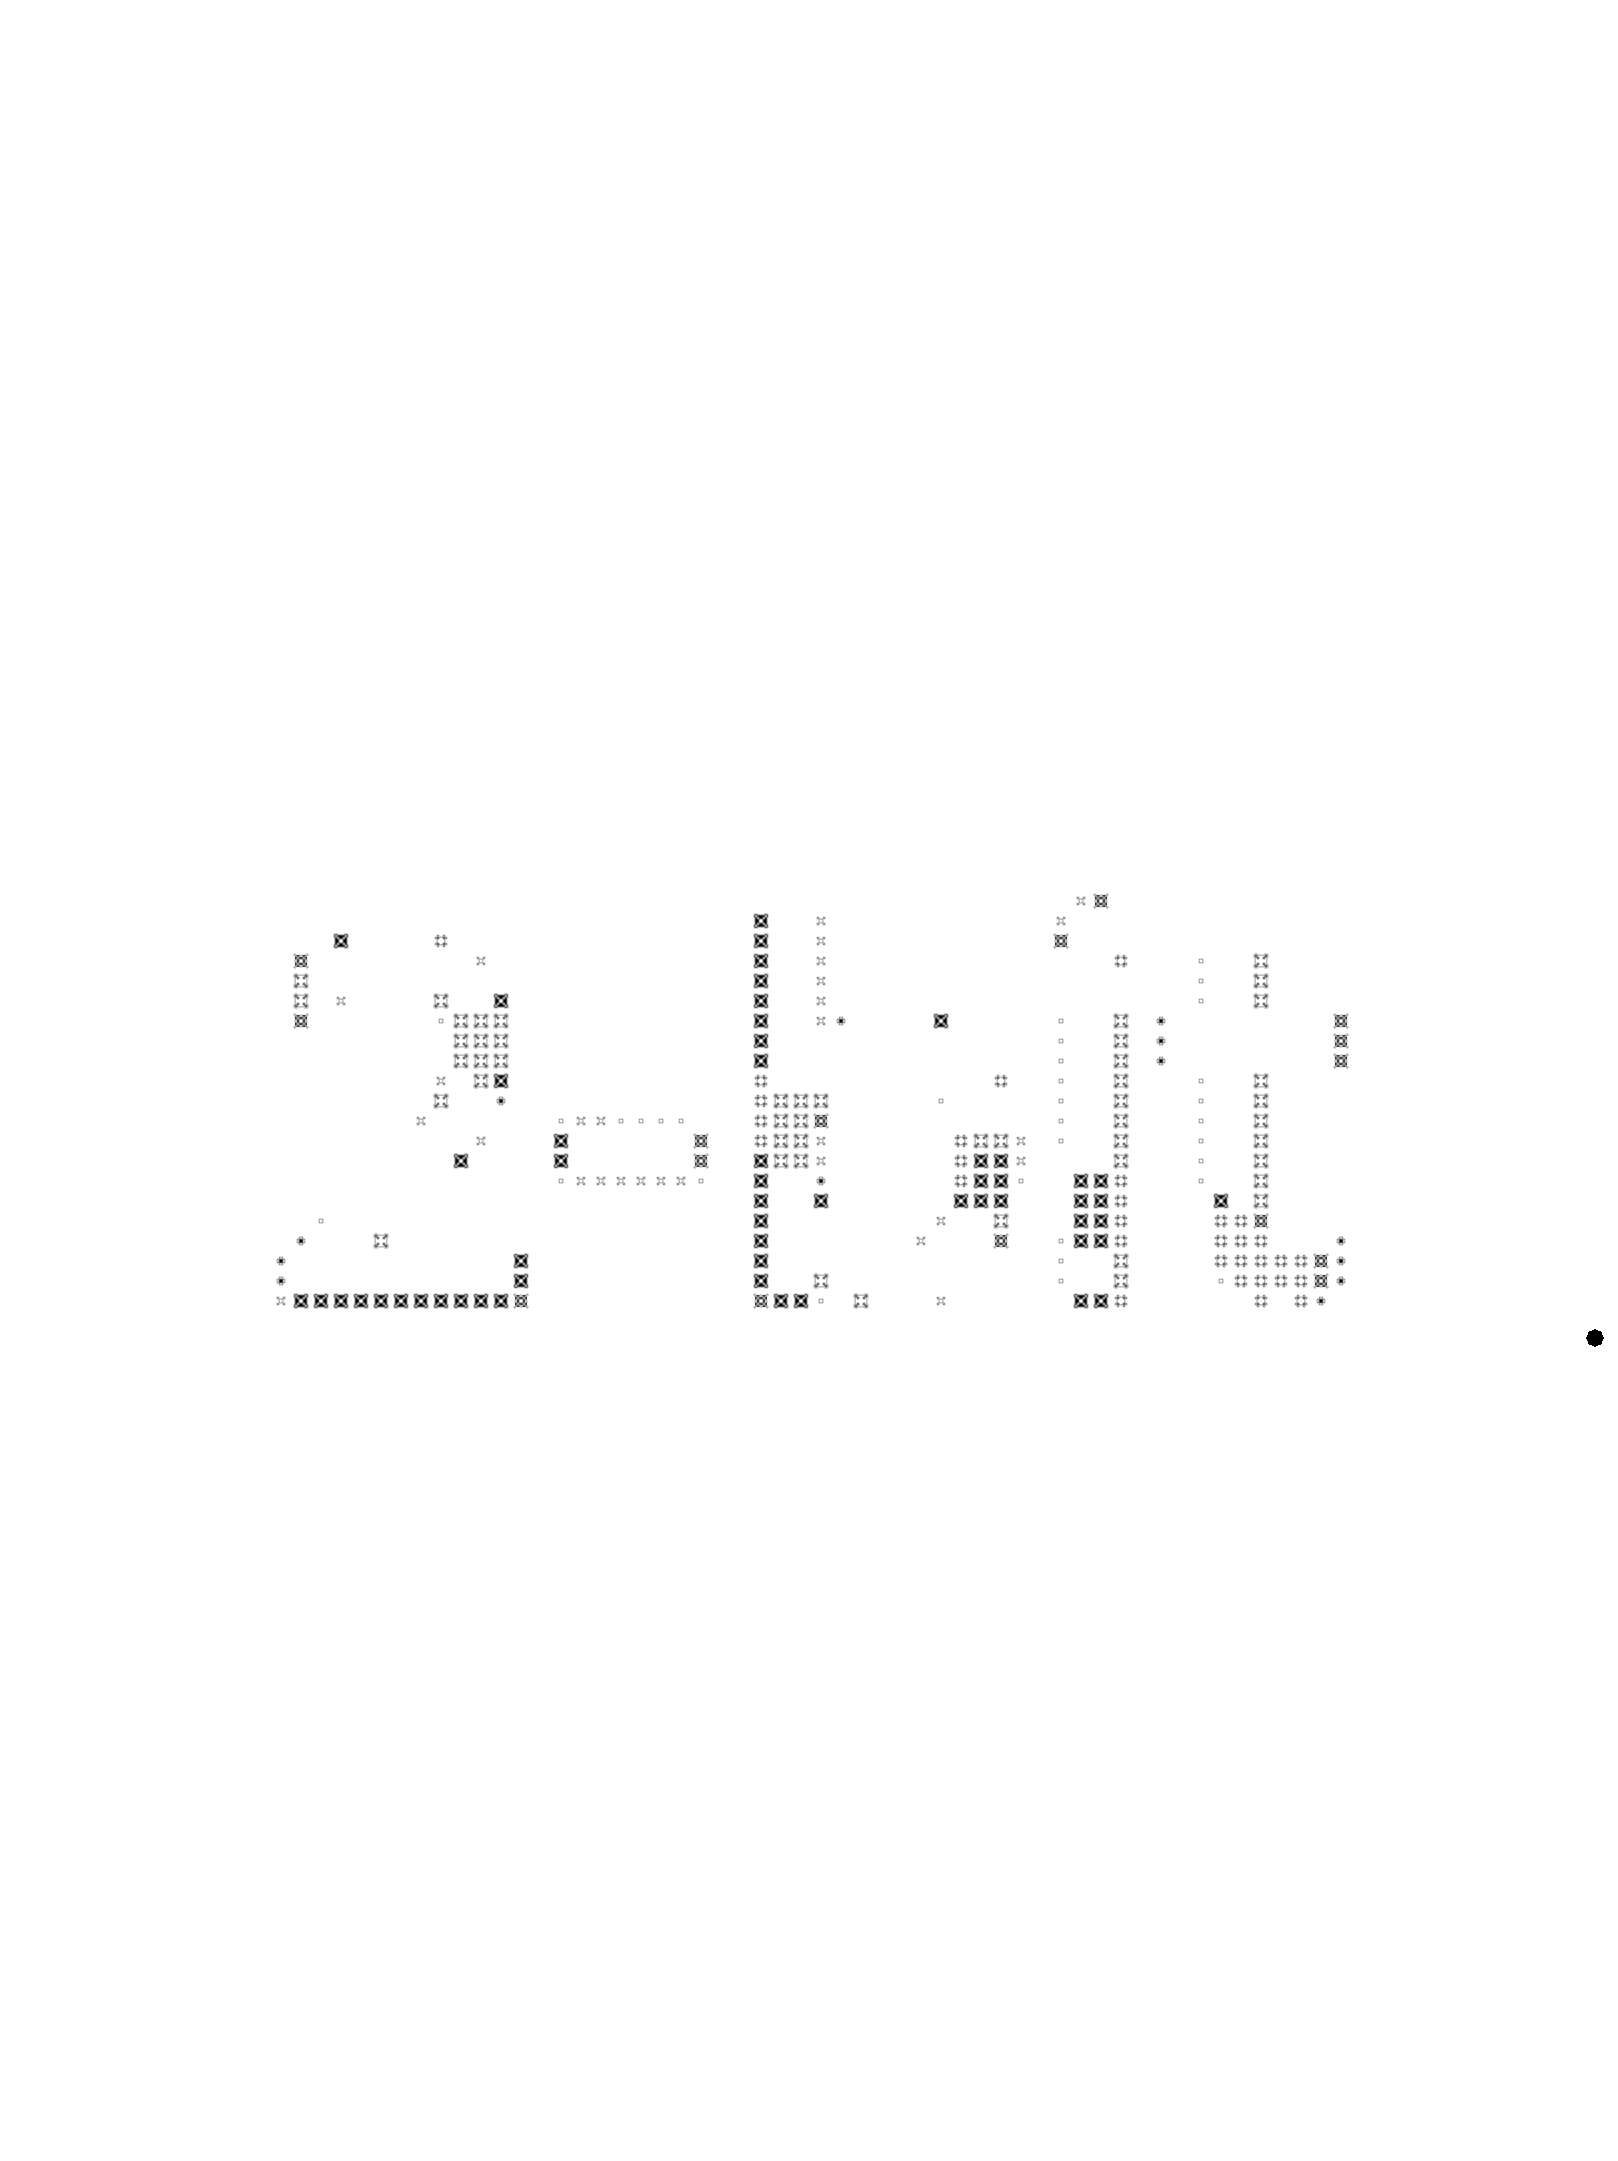
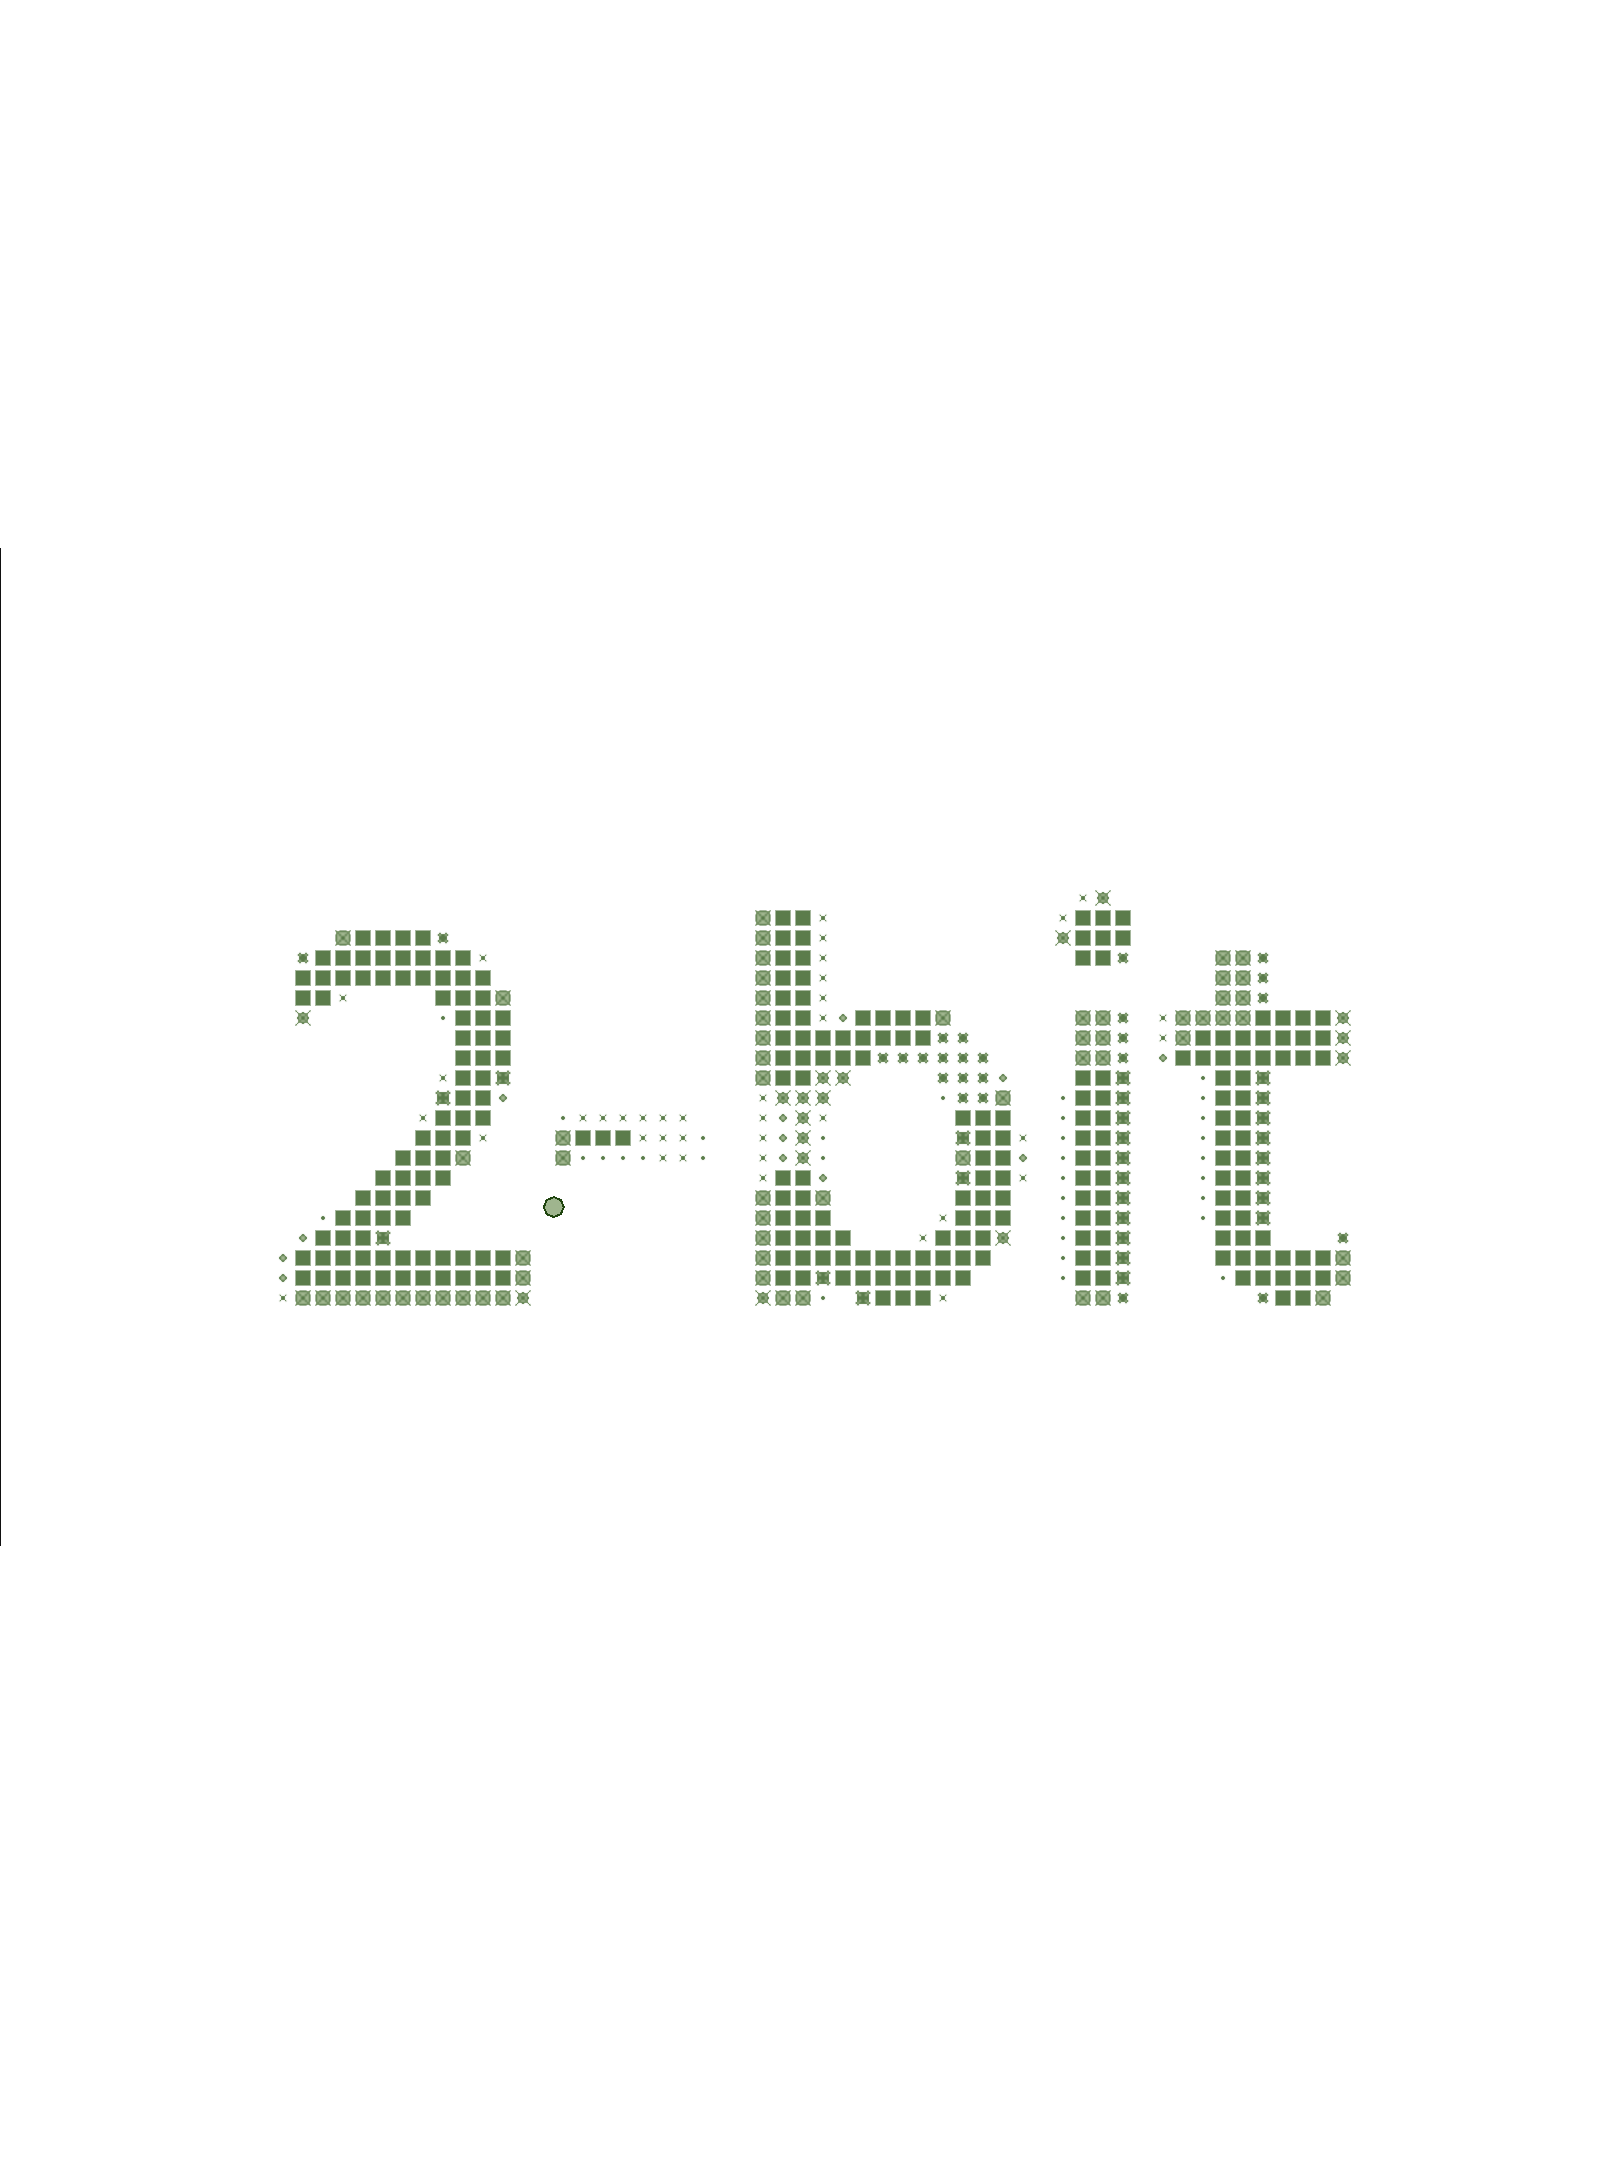
theming

Changed region(s): [[0.4635, 0.4036, 0.8344, 0.6209], [0.1854, 0.4347, 0.3399, 0.6209], [0.3399, 0.4968, 0.4326, 0.5589]]

diff --git a/style.css b/style.css
@@ -32,6 +32,7 @@ body {
     overflow: hidden;
 
     background-color: #111111;
+    transition: background-color 0.25s ease-in-out;
     
     -webkit-font-smoothing: antialiased;
     font-family: 'Roboto', sans-serif;
@@ -71,11 +72,6 @@ body {
     height: fit-content;
 }
 
-.container.dark {
-    background-color: #000000;
-    color: white;
-}
-
 .headingContainer {
     grid-column: 2;
     grid-row: 2;
@@ -101,7 +97,6 @@ body {
     align-self: end;
 
     font-size: 0.9em;
-    color: white;
 
     z-index: 100;
 }
@@ -132,7 +127,6 @@ body {
     margin-bottom: 1em;
     font-style: italic;
     text-decoration: none;
-    color: white;
 }
 
 .keyboardButton {
@@ -143,14 +137,12 @@ body {
 }
 
 .hovering {
-    color: white;
     transition: 0.25s ease-in-out;
 
     z-index: 100;
 }
 
 .hovering:hover {
-    color:red;
     cursor: pointer;
 
     transition: 0.25s ease-in-out;
@@ -277,6 +269,8 @@ canvas {
     align-content: center;
 
     font-size: 200%;
+
+    transition: color 0.25s ease-in-out;
 }
 
 

diff --git a/src/poster/posterManager.js b/src/poster/posterManager.js
@@ -1,4 +1,5 @@
 import { getAllContents } from '../lib/getContent.js';
+import { getTheme } from '../theme.js';
 import { Poster } from './poster.js';
 
 export class PosterManager {
@@ -153,6 +154,20 @@ export class PosterManager {
 
     update(e) {
         this.currentIndex += (this.selectedIndex - this.currentIndex) * 0.1;
+        if (this.currentIndex > 0) {
+            const rounded = Math.round(this.currentIndex);
+            const theme = getTheme(this.posters[rounded].data.theme);
+
+            document.body.style.backgroundColor = theme.backgroundColor;
+            document.querySelectorAll('.metadata').forEach(_ => {
+                _.style.color = theme.textColor;
+            })
+
+            document.querySelectorAll('.metadata p').forEach(_ => {
+                _.style.color = theme.descriptionColor;
+            })
+        }
+
         this.move();
     }
 

diff --git a/index.html b/index.html
@@ -11,6 +11,7 @@
     <meta property="og:description" content="A collective interactive kinetic typography experiences"></meta>
     <meta property="og:image" content="/assets/screenshot.png"></meta>
     <link rel="stylesheet" type="text/css" href="style.css">
+    <link rel="stylesheet" type="text/css" href="color.css">
     <script src="https://ajax.googleapis.com/ajax/libs/webfont/1.6.26/webfont.js"></script>
     <script src="https://pixijs.download/release/pixi.js"></script>
     <script src="https://cdnjs.cloudflare.com/ajax/libs/matter-js/0.18.0/matter.min.js" integrity="sha512-5T245ZTH0m0RfONiFm2NF0zcYcmAuNzcGyPSQ18j8Bs5Pbfhp5HP1hosrR8XRt5M3kSRqzjNMYpm2+it/AUX/g==" crossorigin="anonymous" referrerpolicy="no-referrer"></script>

diff --git a/src/theme.js b/src/theme.js
@@ -1,0 +1,23 @@
+
+export function getTheme(theme) {
+    switch(theme) {
+        case 'dark':
+            return {
+                textColor: '#ffffff',
+                descriptionColor: '#aaaaaa',
+                backgroundColor: '#111111'
+            }
+        case 'twobit': 
+            return {
+                textColor: '#517D45',
+                descriptionColor: '#99B68A',
+                backgroundColor: '#DFF0D3'
+            }
+        default:
+            return {
+                textColor: '#ffffff',
+                descriptionColor: '#aaaaaa',
+                backgroundColor: '#111111'
+            }
+    }
+}

diff --git a/src/drawing/2bit/arrow.js b/src/drawing/2bit/arrow.js
@@ -19,14 +19,14 @@ export class Arrow {
 
     updateLine() {
         this.graphic.clear();
-        this.graphic.lineStyle(1, 0xffffff)
+        this.graphic.lineStyle(1, 0x0C4500)
             .moveTo(this.startX, this.startY)
             .lineTo(this.endX, this.endY);
     }
 
     updateArrow() {
         this.graphic.clear();
-        this.graphic.lineStyle(1, 0xffffff)
+        this.graphic.lineStyle(1, 0x0C4500)
             .arc(this.x, this.y, this.radius / 2, 0, 2 * Math.PI);
 
         this.x += (this.endX - this.x) * 0.01;

diff --git a/src/lib/getContent.js b/src/lib/getContent.js
@@ -71,7 +71,7 @@ export function getContentMetadata(number) {
         case 4:
             return {
                 title: '2-bit',
-                theme: 'dark',
+                theme: 'twobit',
                 number,
                 description: '2-bit particle texture. User has ability to create an arrow that interacts with the surface.',
                 imageUrl: '/assets/2-bit.png'

diff --git a/color.css b/color.css
@@ -1,0 +1,27 @@
+/* Container */
+.container.dark {
+    background-color: #000000;
+    color: white;
+}
+
+.container.twobit {
+    background-color: #99B68A;;
+    color: #517D45
+}
+
+/* Hover */
+.dark .hovering {
+    color: white;
+}
+
+.dark .hovering:hover {
+    color:red;
+}
+
+.twobit .hovering {
+    color: #517D45;
+}
+
+.twobit .hovering:hover {
+    color:#0C4500;
+}

diff --git a/src/drawing/2bit/particle.js b/src/drawing/2bit/particle.js
@@ -7,11 +7,11 @@ export class Particle {
         this.sprite.scale.set(this.ballSize);
         this.sprite.anchor.set(0.5,0.5);
 
-        this.sprite.tint = 0xffffff;
+        this.sprite.tint = 0x517D45;
 
         this.sprite.interactive = true;
 
-        this.alpha = pos.alpha;
+        this.alpha = 0;
         this.savedAlpha = pos.alpha;
 
         this.savedX = pos.x;
